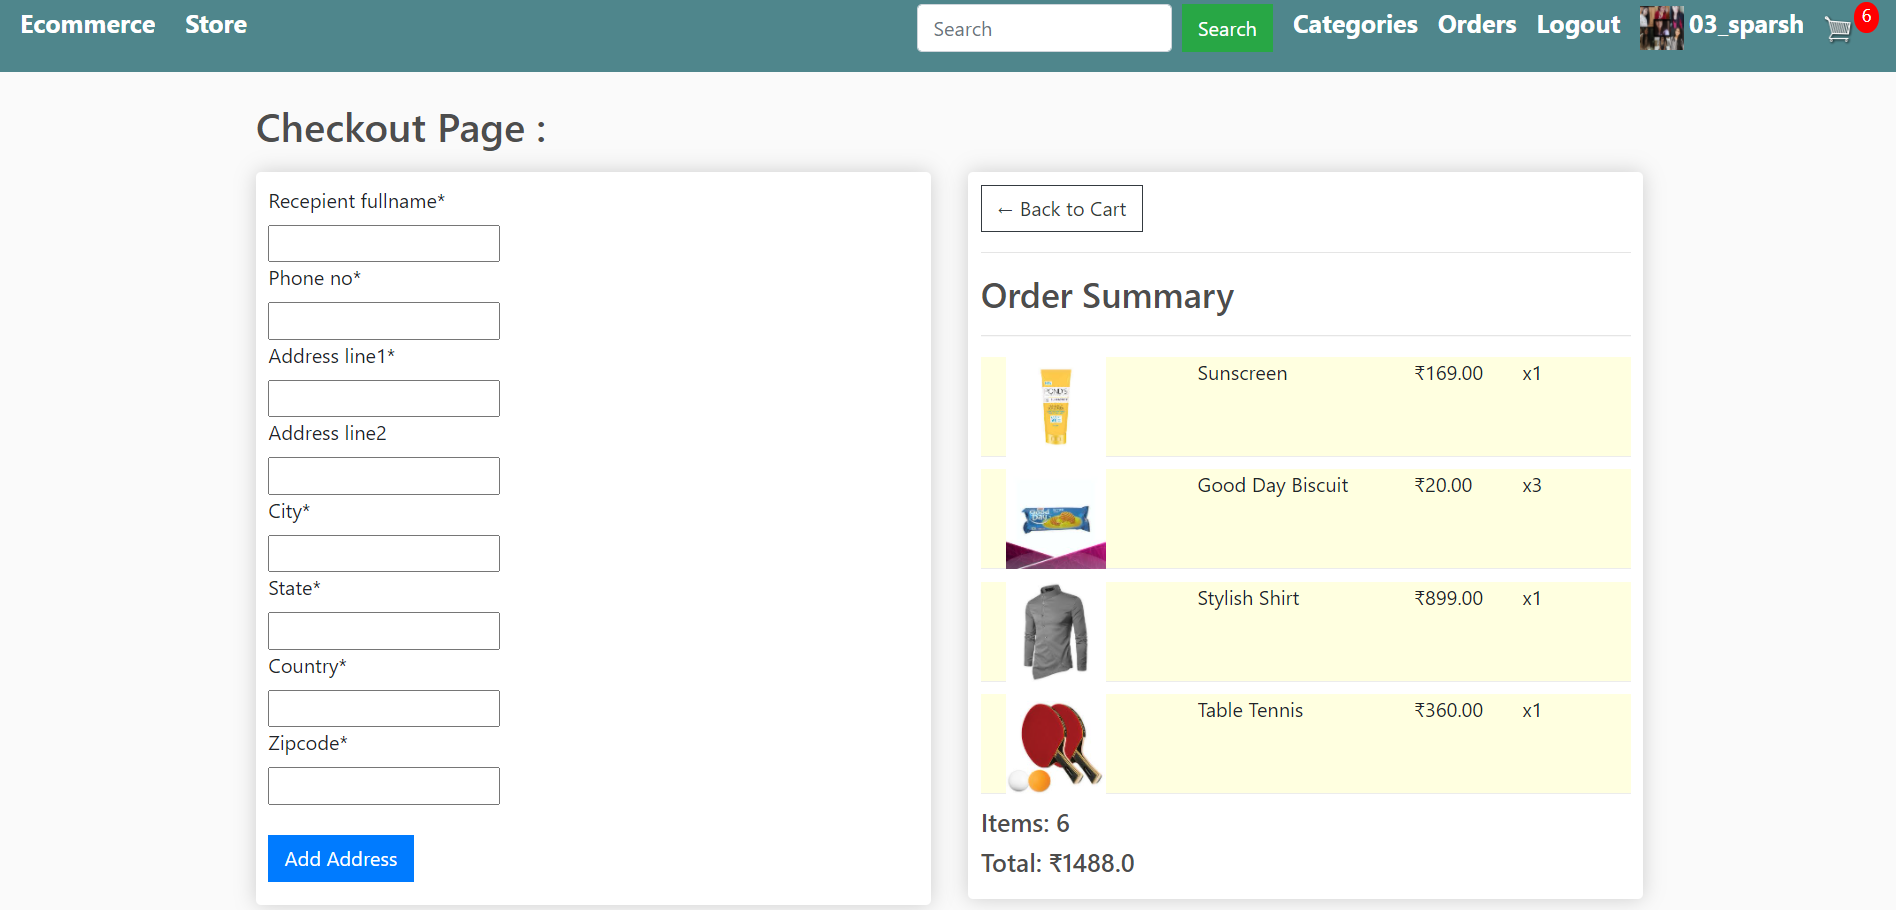
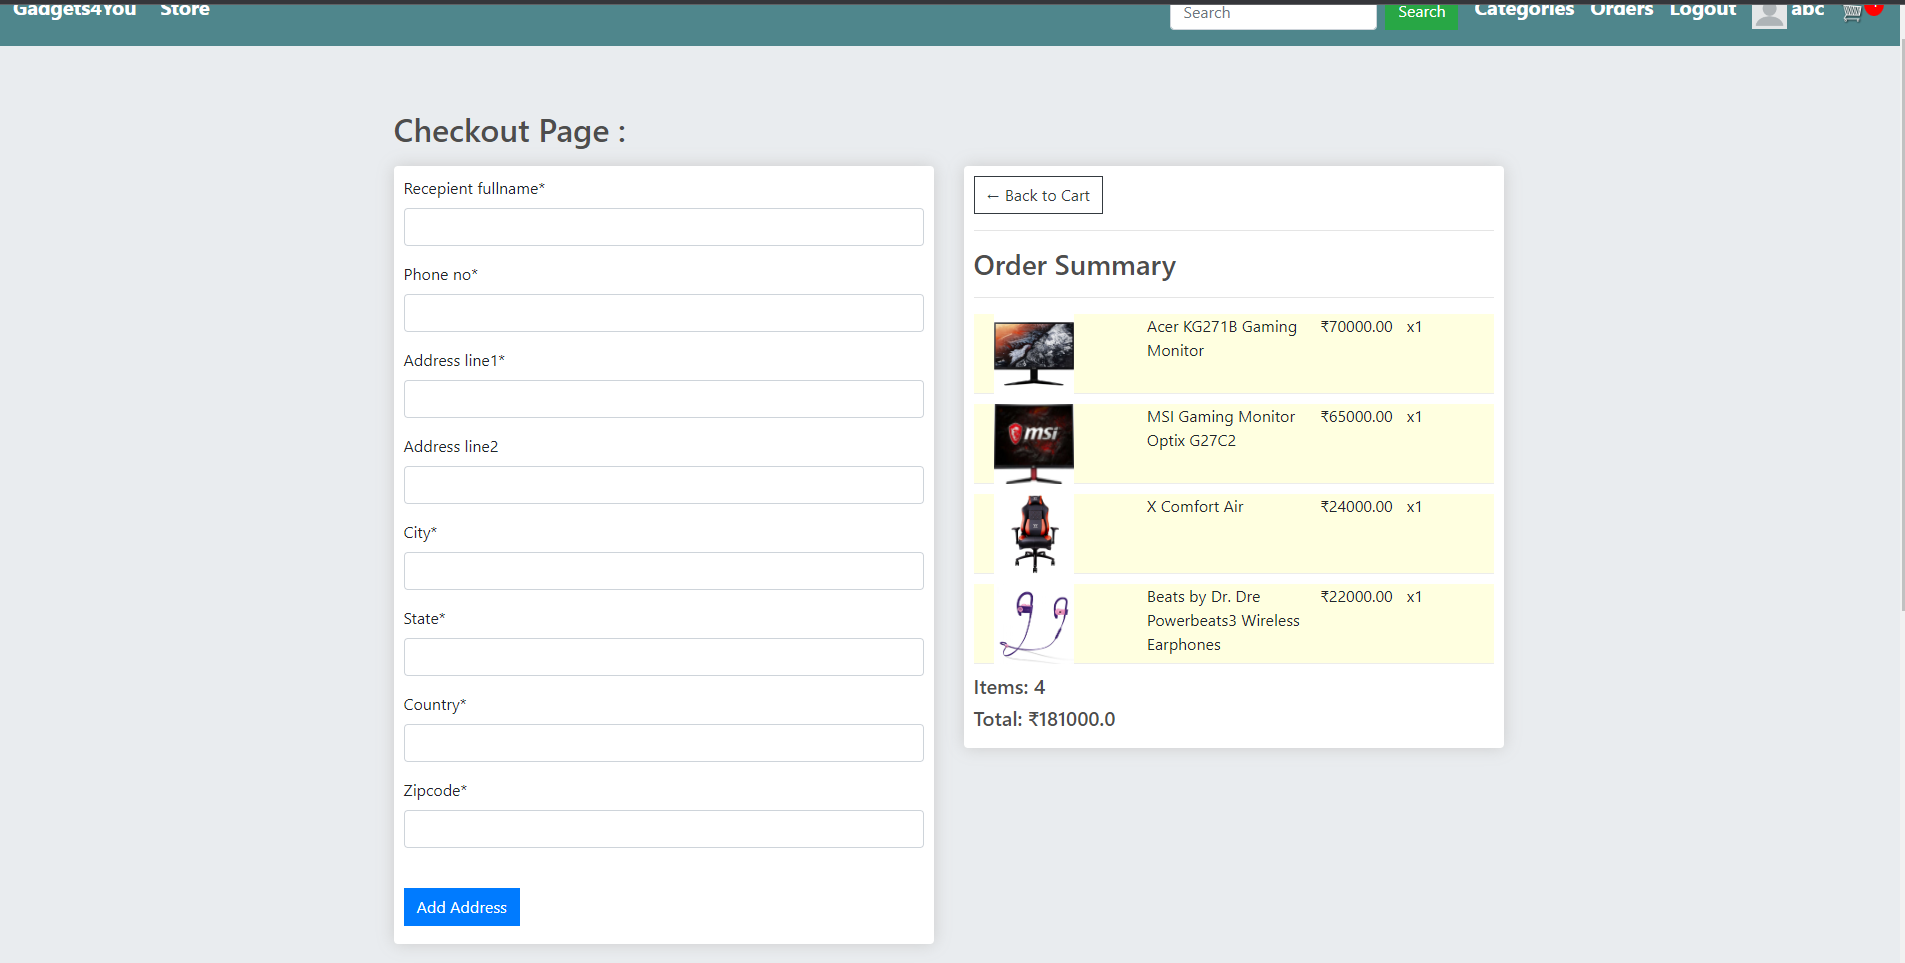
final commit

Changed region(s): [[0.4979, 0.1538, 0.8091, 0.9538], [0.0, 0.0, 1.0, 0.6462], [0.1245, 0.1231, 0.4979, 1.0]]

diff --git a/store/templates/store/main.html b/store/templates/store/main.html
@@ -2,7 +2,7 @@
 {% load static %}
 <html>
 <head>
-	<title>Ecommerce</title>
+	<title>Gadgets4You</title>
 
 	<meta name="viewport" content="width=device-width, initial-scale=1, maximum-scale=1, minimum-scale=1" />
 

diff --git a/README.md b/README.md
@@ -11,41 +11,34 @@
 ### SignUp Page :
 <p>-- User have to register to purchase items.</p>
 <p>-- Email Verificaton Feature.</p>
-<img src="../static/images/signup.png"
+<img src="/image_readme/signup.png"
 
 ### Login Page :
 <p>-- User can login by entering his/her username and password.</p>
 <p>-- Social Authentication Feature</p>
 <p>-- Forgot Password Feature </p>
-<img src="../static/images/login.png">
-
-### Profile Page :
-<img src="/image_readme/profile.png">
-
-### Edit Profile Page :
-<p>-- User can edit his profile</p>
-<img src="/image_readme/edit profile.png">
+<img src="/image_readme/login.png">
 
 ### Ecommerce Front Page:
 <p>-- Category wise items is shown</p>
 <p>-- Search Button Feature</p>
-<img src="../static/images/home.png.png">
+<img src="/image_readme/store.png">
 
 ### Products Page :
 <p>-- Products of a particular category are shown</p>
 <p>-- Add To Cart feature</p>
-<img src="monitor.png">
+<img src="/image_readme/laptop.png">
 
 ### Cart Page :
 <p>-- Items in the cart are shown.</p>
 <p>-- User can change the quantity of each of the cart products.</p>
-<img src="../static/images/shopcart.png">
+<img src="/image_readme/shopcart.png">
 
 ### Checkout Page:
 <p>-- Final Order summary is shown</p>
 <p>-- New Address Feature</p>
 <p>-- Edit Delete or Use of stored address Feature</p>
-<img src="../static/images/chcekout.png">
+<img src="/image_readme/checkout.png">
 
 ### Payment Successful Page :
 <p>-- Payment Gateway Feature (Not Integrated as it's not in production)</p>
@@ -54,4 +47,4 @@
 ### Orders page :
 <p>-- Details of the orders</p>
 <p>-- Track your order (Not Integrated as it's not in production)</p>
-<img src="/image_readme/orders.png">
+<img src="/image_readme/order.png">
